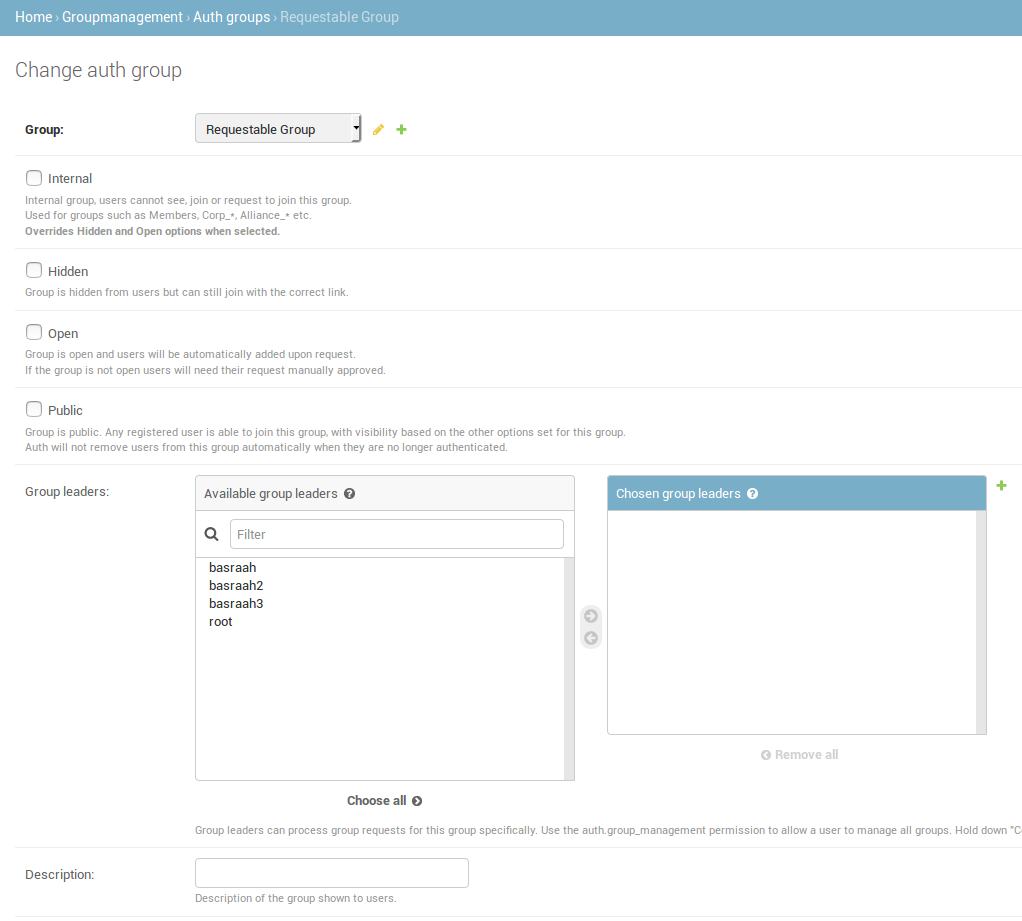
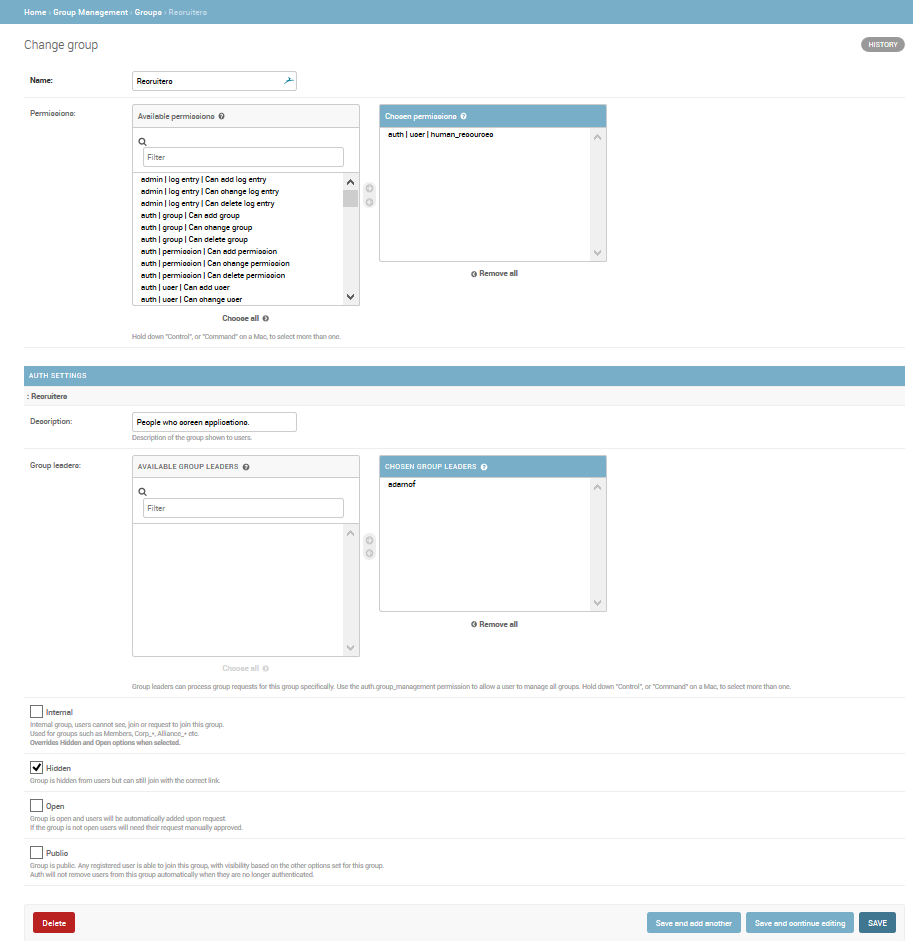
Update group management docs showing merged admin pages. Give groupmanagement app a more friendly display name.

diff --git a/allianceauth/groupmanagement/apps.py b/allianceauth/groupmanagement/apps.py
@@ -4,3 +4,4 @@ from django.apps import AppConfig
 class GroupManagementConfig(AppConfig):
     name = 'allianceauth.groupmanagement'
     label = 'groupmanagement'
+    verbose_name = 'Group Management'

diff --git a/docs/features/groups.md b/docs/features/groups.md
@@ -5,7 +5,7 @@ Group Management is one of the core tasks of Alliance Auth. Many of Alliance Aut
 
 Administrators can create custom groups for users to join. Examples might be groups like `Leadership`, `CEO` or `Scouts`.
 
-When you create a Django `Group`, Auth automatically creates a corresponding `AuthGroup` model. The admin page looks like this:
+When you create a `Group` additional settings are available beyond the normal Django group model. The admin page looks like this:
 
 ![AuthGroup Admin page](/_static/images/features/group-admin.png)
 
